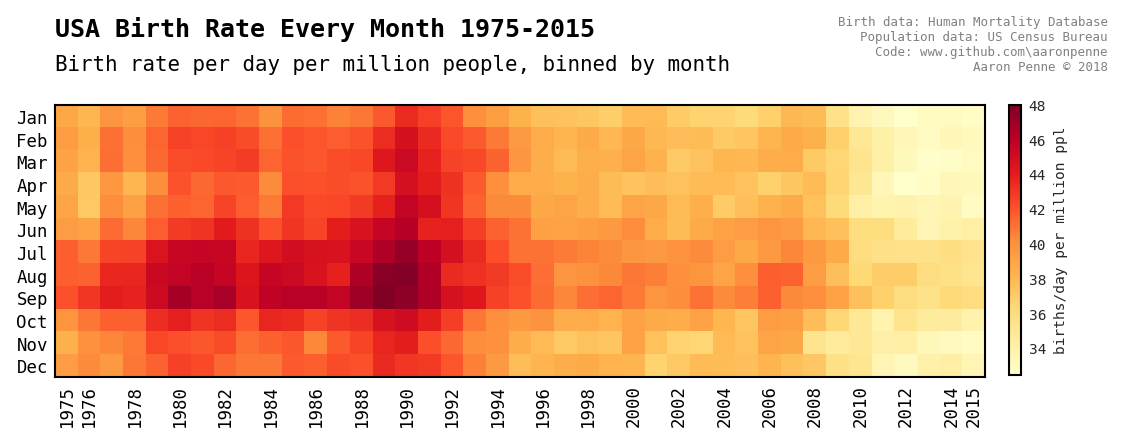
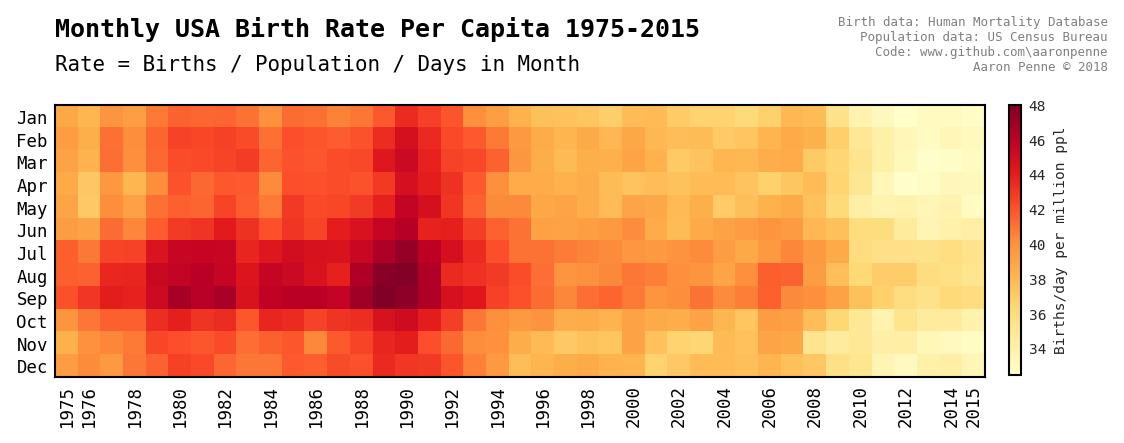
Tweak chart annotations.

Changed region(s): [[0.0311, 0.1174, 0.6539, 0.1761], [0.0311, 0.0293, 0.6228, 0.088]]

diff --git a/birth_rate/birth_heatmap.py b/birth_rate/birth_heatmap.py
@@ -108,11 +108,13 @@ df = df.loc[df.index <= df_birth.index.max()]
 
 
 sns.set_style('whitegrid')
+mp.rcParams['font.family'] = 'monospace'
+
 month_names = ['Jan', 'Feb', 'Mar', 'Apr', 'May', 'Jun', 'Jul', 'Aug', 'Sep', 'Oct', 'Nov', 'Dec']
 
-h1 = mp.font_manager.FontProperties(family='monospace', size='large')
-h2 = mp.font_manager.FontProperties(family='monospace', size='small')
-h3 = mp.font_manager.FontProperties(family='monospace', size='x-small')
+h1 = mp.font_manager.FontProperties(size='large')
+h2 = mp.font_manager.FontProperties(size='small')
+h3 = mp.font_manager.FontProperties(size='x-small')
 
 
 #
@@ -123,12 +125,13 @@ h3 = mp.font_manager.FontProperties(family='monospace', size='x-small')
 dp = df
 fig, ax = plt.subplots(figsize=(12, 4), dpi=150)
 ax.plot(dp['rate'], color='black')
-plt.title('USA Birth Rate 1933-2015')
-ax.text(727000, 15,
+plt.title('Monthly USA Birth Rate 1933-2015')
+ax.set_xlabel("Year")
+ax.set_ylabel('Births/day per million ppl')
+ax.text(728000, 15,
         'Birth data: Human Mortality Database\nPopulation data: US Census Bureau\nCode: www.github.com\\aaronpenne\nAaron Penne © 2018',
-        fontsize = 10,
+        fontsize = 8,
         color = 'gray',
-        family = 'monospace',
         multialignment = 'right')
 fig.savefig('birth_rate_usa_line.png', dpi='figure', bbox_inches='tight', pad_inches=.11)
 
@@ -137,13 +140,14 @@ fig.savefig('birth_rate_usa_line.png', dpi='figure', bbox_inches='tight', pad_in
 dp = df
 fig, ax = plt.subplots(figsize=(12, 4), dpi=150)
 sns.boxplot(x='month', y='rate', data=dp, ax=ax, palette='Set2')
-sns.stripplot(x='month', y='rate', data=dp, ax=ax, color='black', alpha=0.25, jitter=0.1)
+sns.stripplot(x='month', y='rate', data=dp, ax=ax, color='black', alpha=0.3, jitter=0.2)
 plt.title('USA Birth Rate 1933-2015 - Month to Month comparison')
-ax.text(7.5, 10,
+ax.set_xlabel("Month")
+ax.set_ylabel('Births/day per million ppl')
+ax.text(8, 10,
         'Birth data: Human Mortality Database\nPopulation data: US Census Bureau\nCode: www.github.com\\aaronpenne\nAaron Penne © 2018',
-        fontsize = 10,
+        fontsize = 8,
         color = 'gray',
-        family = 'monospace',
         multialignment = 'right')
 fig.savefig('birth_rate_usa_box.png', dpi='figure', bbox_inches='tight', pad_inches=.11)
 
@@ -173,39 +177,33 @@ for _, loc in ax.spines.items():
 #    loc.set_visible(True)
     loc.set_color('black')
 plt.yticks(np.linspace(0,11,12), month_names,
-           family='monospace',
            size='small',
            color='black')
 x_values, x_names = get_custom_tick_labels(dp, 2)
 plt.xticks(x_values, x_names,
-           family='monospace',
            size='small',
            color='black',
            rotation='vertical')
 cax = fig.add_axes([0.92, .3333, 0.01, .3333])
-cb = plt.colorbar(label='births/day per million ppl', cax=cax)
+cb = plt.colorbar(label='Births/day per million ppl', cax=cax)
 cb.outline.set_edgecolor('black')
 cax.yaxis.label.set_font_properties(h3)
-cax.set_yticklabels(cax.get_yticklabels(), 
-                    family='monospace',
+cax.set_yticklabels(cax.get_yticklabels(),
                     size='x-small')
 # Annotations
 ax.text(-0.5, -4.2,
-        'USA Birth Rate Every Month 1933-2015',
+        'Monthly USA Birth Rate Per Capita 1933-2015',
         fontsize = 14,
         color = 'black',
-        weight = 'bold',
-        family = 'monospace')
+        weight = 'bold',)
 ax.text(-0.5, -2,
-        'Birth rate per day per million people, binned by month',
+        'Rate = Births / Population / Days in Month',
         fontsize = 12,
-        color = 'black',
-        family = 'monospace')
+        color = 'black',)
 ax.text(64, -2,
         'Birth data: Human Mortality Database\nPopulation data: US Census Bureau\nCode: www.github.com\\aaronpenne\nAaron Penne © 2018',
         fontsize = 7,
         color = 'gray',
-        family = 'monospace',
         multialignment = 'right')
 fig.savefig('birth_rate_heat_usa.png', dpi='figure', bbox_inches='tight', pad_inches=.11)
 
@@ -222,38 +220,32 @@ for _, loc in ax.spines.items():
 #    loc.set_visible(True)
     loc.set_color('black')
 plt.yticks(np.linspace(0,11,12), month_names,
-           family='monospace',
            size='small',
            color='black')
 x_values, x_names = get_custom_tick_labels(dp, 2)
 plt.xticks(x_values, x_names,
-           family='monospace',
            size='small',
            color='black',
            rotation='vertical')
 cax = fig.add_axes([0.92, .28, 0.01, .45])
-cb = plt.colorbar(label='births/day per million ppl', cax=cax)
+cb = plt.colorbar(label='Births/day per million ppl', cax=cax)
 cb.outline.set_edgecolor('black')
 cax.yaxis.label.set_font_properties(h3)
-cax.set_yticklabels(cax.get_yticklabels(), 
-                    family='monospace',
+cax.set_yticklabels(cax.get_yticklabels(),
                     size='x-small')
 # Annotations
 ax.text(-0.5, -3.5,
-        'USA Birth Rate Every Month ' + str(min_year) + '-' + str(max_year),
+        'Monthly USA Birth Rate Per Capita ' + str(min_year) + '-' + str(max_year),
         fontsize = 12,
         color = 'black',
-        weight = 'bold',
-        family = 'monospace')
+        weight = 'bold')
 ax.text(-0.5, -2,
-        'Birth rate per day per million people, binned by month',
+        'Rate = Births / Population / Days in Month',
         fontsize = 10,
-        color = 'black',
-        family = 'monospace')
+        color = 'black')
 ax.text(34, -2,
         'Birth data: Human Mortality Database\nPopulation data: US Census Bureau\nCode: www.github.com\\aaronpenne\nAaron Penne © 2018',
         fontsize = 6,
         color = 'gray',
-        family = 'monospace',
         multialignment = 'right')
 fig.savefig('birth_rate_usa_heat_ranged.png', dpi='figure', bbox_inches='tight', pad_inches=.11)
